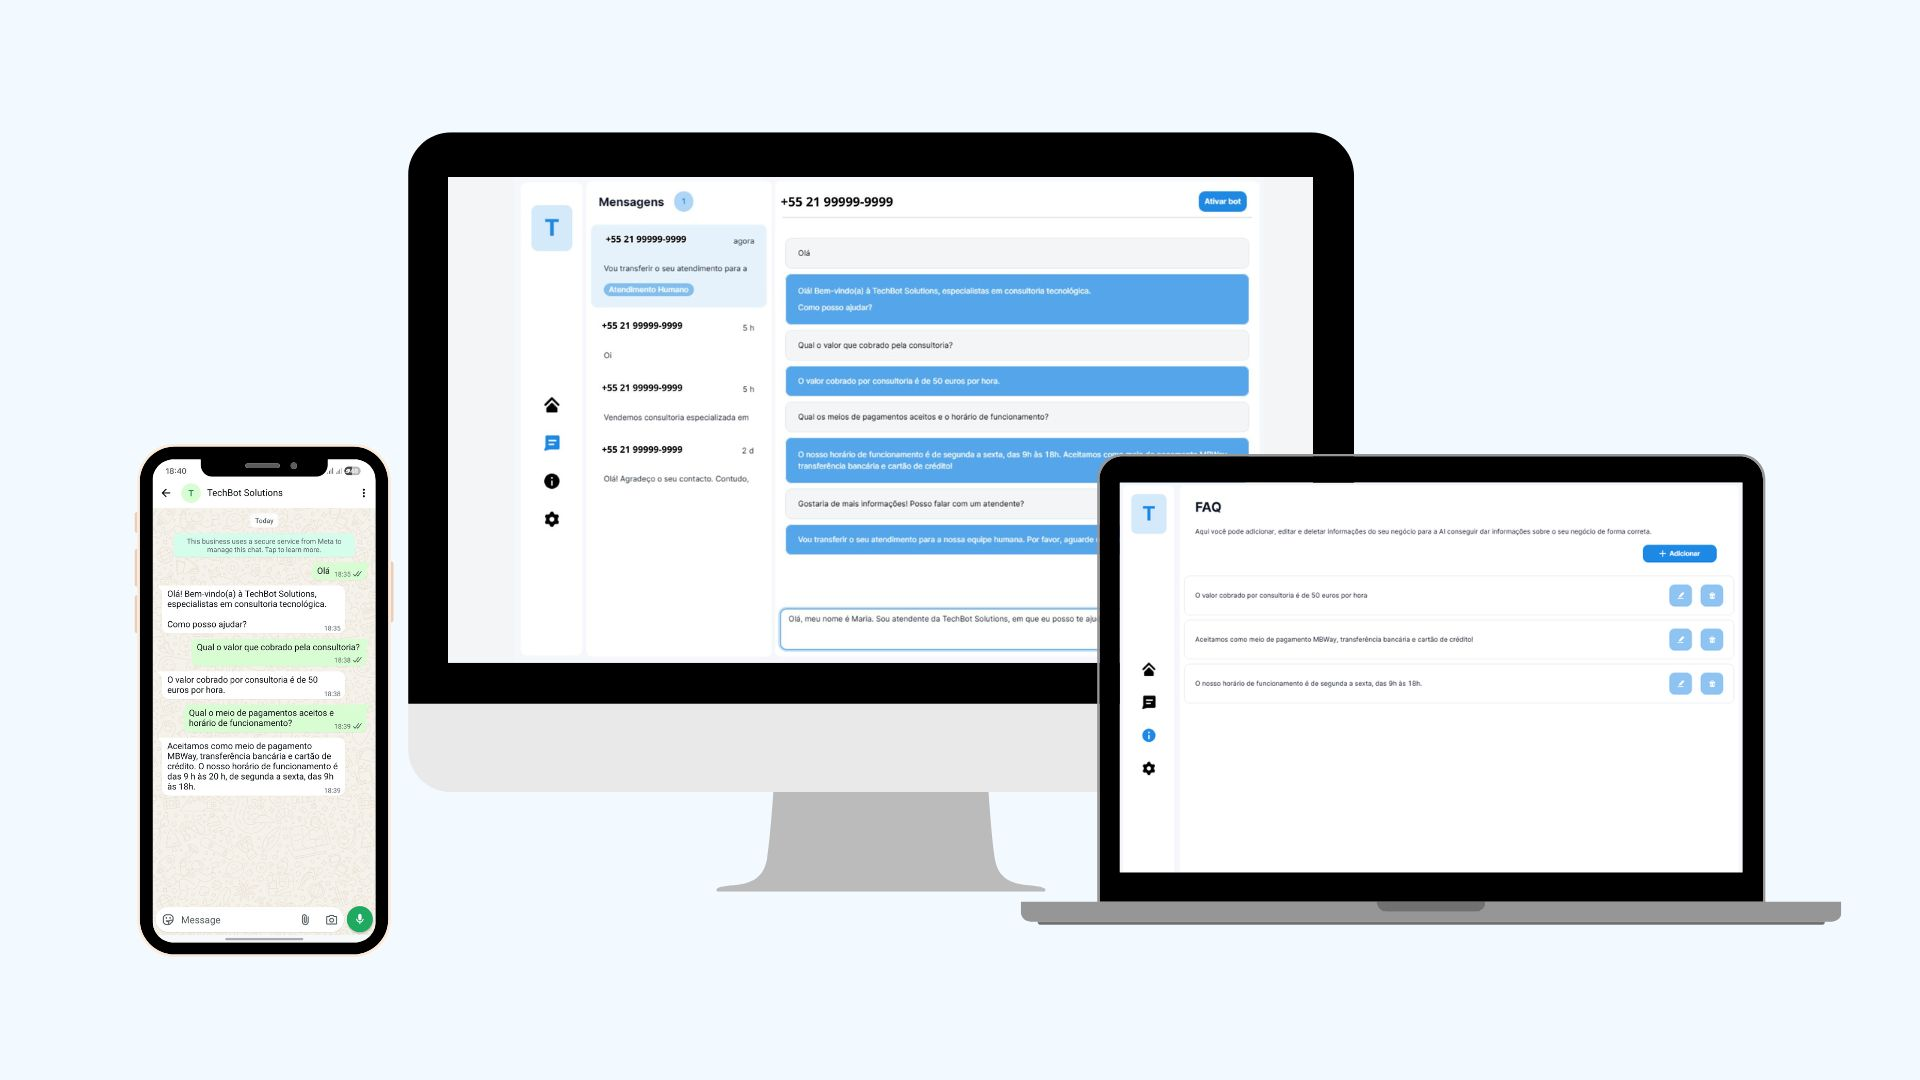
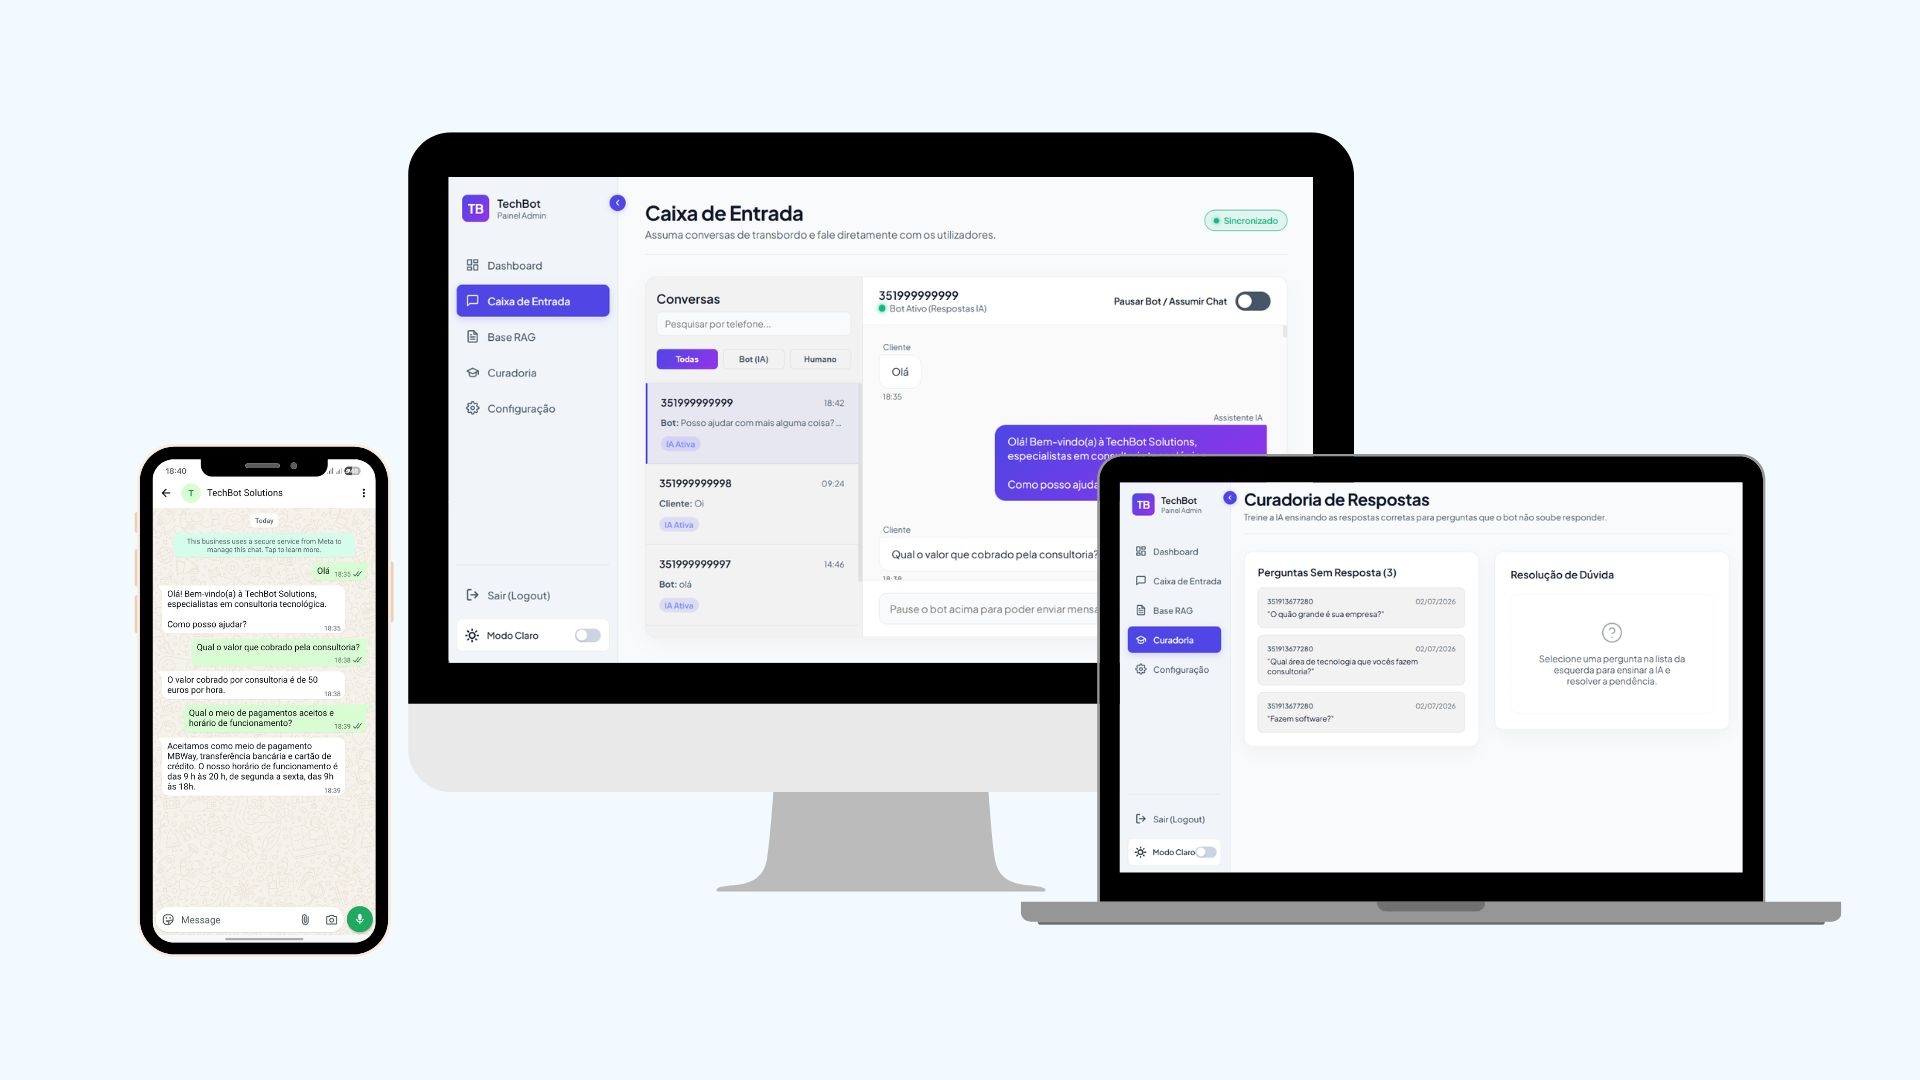
feat: update project routing to use slugs and enhance WhatsApp Chatbot project description

diff --git a/src/data/db.js b/src/data/db.js
@@ -378,7 +378,7 @@ export const projectsData = [
     title: "WhatsApp Chatbot",
     desc: "An automated customer support chatbot integrated with WhatsApp, leveraging RAG to deliver precise, hallucination-free answers from a vector database.",
     stack:
-      "Node.js, TypeScript, Google Gemini API, Supabase, WhatsApp Cloud API",
+      "Node.js, TypeScript, React, Google Gemini API, Supabase, WhatsApp Cloud API",
     year: 2026,
     role: "Software Engineer",
     image: chatbotImg,
@@ -387,10 +387,12 @@ export const projectsData = [
     longDesc: (
       <>
         <p>
-          The WhatsApp Chatbot is an automated messaging system
+          The WhatsApp Chatbot is an automated messaging and management system
           designed to optimize customer communication. Operating 24/7, it uses
-          advanced Artificial Intelligence to provide instant, precise answers
-          to frequently asked questions (FAQ).
+          Retrieval-Augmented Generation (RAG) and a bespoke administrative
+          dashboard to provide instant, precise answers to frequently asked
+          questions (FAQ), while allowing human agents to monitor and take
+          control of chats in real-time.
         </p>
 
         <br />
@@ -398,17 +400,17 @@ export const projectsData = [
         <h3>The Challenge</h3>
         <p>
           Support teams often face a high volume of repetitive inquiries, which
-          can delay response times and increase operational costs. The
-          challenge was to build an automated system that could accurately
-          understand user intent while strictly preventing the AI from
-          hallucinating or providing information outside the company's
-          established knowledge base.
+          delays response times and increases operational costs. The challenge
+          was to build a system that accurately understands user intent,
+          strictly prevents AI hallucinations, and provides a secure, intuitive
+          dashboard for human agents to supervise conversations, update company
+          knowledge, and seamlessly take over chats when necessary.
         </p>
 
         <br />
 
         <h3>The Solution</h3>
-        <p>A scalable, serverless chatbot featuring:</p>
+        <p>A scalable, secure conversational ecosystem featuring:</p>
         <ul
           style={{
             listStyleType: "disc",
@@ -417,10 +419,9 @@ export const projectsData = [
           }}
         >
           <li>
-            <strong>RAG (Retrieval-Augmented Generation):</strong> Semantic
+            <strong>Retrieval-Augmented Generation (RAG):</strong> Semantic
             search capabilities that understand the context of user questions,
-            ignoring slang and grammatical errors, to fetch correct
-            answers.
+            ignoring slang and grammatical errors, to fetch correct answers.
           </li>
           <li>
             <strong>Strict Hallucination Mitigation:</strong> The LLM is rigidly
@@ -428,14 +429,22 @@ export const projectsData = [
             knowledge base.
           </li>
           <li>
-            <strong>Human Handoff:</strong> Automated triggers that pause the
-            chatbot and smoothly transfer the conversation to a human operator
-            when the AI confidence is low or the user requests it.
+            <strong>Human Handoff:</strong> A two-step fallback protocol. If the
+            AI cannot answer, it politely asks if the user wants to speak with a
+            human. If the user confirms ("yes", "please", etc.), the chatbot
+            automatically pauses itself, notifies support, and hands over the
+            chat.
           </li>
           <li>
-            <strong>Continuous Learning Panel:</strong> An admin interface for
-            curating failed queries and re-indexing the vector database without
-            requiring code changes.
+            <strong>Custom Administration Panel:</strong> A bespoke, responsive
+            React dashboard featuring a collapsible navigation sidebar,
+            real-time message stream, and dark/light modes.
+          </li>
+          <li>
+            <strong>Continuous Curation Queue:</strong> An interface that
+            captures unresolved user questions, allowing agents to input the
+            correct answer, assign a category and title, and index it into the
+            vector database in one click.
           </li>
         </ul>
 
@@ -443,8 +452,8 @@ export const projectsData = [
 
         <h3>Engineering & Architecture</h3>
         <p>
-          The system was built with a modern, serverless cloud architecture
-          focusing on low maintenance and high scalability:
+          The system was engineered using a decoupled, secure server-client
+          architecture:
         </p>
         <ul
           style={{
@@ -454,25 +463,45 @@ export const projectsData = [
           }}
         >
           <li>
-            <strong>Backend & Integrations:</strong> Developed in Node.js using
-            TypeScript to robustly handle asynchronous webhook processing
-            directly from the official WhatsApp Cloud API.
+            <strong>Backend & Integrations:</strong> Developed in Node.js and
+            TypeScript using Express to handle real-time webhook payloads from
+            the official WhatsApp Cloud API. Secure access to all admin routes
+            is enforced via a custom JWT (JSON Web Token) authentication
+            middleware.
           </li>
           <li>
-            <strong>AI Engine:</strong> Powered by the Google Gemini API,
-            utilizing <code>gemini-embedding-001</code> for creating vector
-            representations of knowledge and Gemini for highly cost-effective
-            and intelligent language generation.
+            <strong>AI Engine:</strong> Powered by the Google Gemini API using{" "}
+            <code>Gemini 3.5 Flash</code>. Uses{" "}
+            <code>gemini-embedding-001</code> for vectorizing enterprise
+            documentation.
           </li>
           <li>
             <strong>Vector Database:</strong> Built on Supabase, leveraging the{" "}
-            <code>pgvector</code> extension to centralize both traditional chat
-            history logs and knowledge embeddings within the same PostgreSQL
-            ecosystem.
+            <code>pgvector</code> extension to query semantic contexts via
+            cosine similarity, and utilizing Supabase Realtime channels to
+            stream inbox updates instantly.
           </li>
           <li>
-            <strong>Admin Interface:</strong> Designed with Retool to provide a user-friendly curation and log management
-            dashboard.
+            <strong>Bespoke Frontend Panel:</strong> Developed in React, Vite,
+            and Vanilla CSS. It features:
+            <ul
+              style={{
+                listStyleType: "disc",
+                marginLeft: "20px",
+                marginBottom: "10px",
+              }}
+            >
+              <li>
+                <strong>Real-Time Messaging:</strong> Displays active chats with
+                unread counters, role differentiation labels, and an override
+                toggle to pause/resume the AI.
+                <strong>Knowledge Grid:</strong> Fully editable table to manage
+                knowledge items, categories, and titles.
+                <strong>Dynamic Settings Control:</strong> A database-backed
+                config page that lets administrators edit the system prompt and
+                change AI models instantly without restarting the server.
+              </li>
+            </ul>
           </li>
         </ul>
 
@@ -480,11 +509,12 @@ export const projectsData = [
 
         <h3>Results</h3>
         <p>
-          The result is a highly stable and intelligent messaging system that
-          drastically reduces the human support workload. By maintaining an
-          uncompromised standard of data privacy via environment variables and
-          seamlessly integrating the human handoff protocol, the chatbot ensures
-          users always receive accurate, reliable, and fluid customer service.
+          The result is a highly stable, secure, and intelligent messaging
+          solution that reduces support workload by automating repetitive FAQs.
+          By combining robust JWT security, real-time agent notifications, and a
+          seamless human takeover channel, the chatbot guarantees that users
+          receive accurate, reliable support while giving the company absolute
+          control over their AI.
         </p>
       </>
     ),
@@ -692,3 +722,10 @@ export const educationData = [
     ),
   },
 ];
+
+export const getProjectSlug = (title) => {
+  return title
+    .toLowerCase()
+    .replace(/\s+/g, "-")
+    .replace(/[^a-z0-9-]/g, "");
+};

diff --git a/src/pages/Projects.js b/src/pages/Projects.js
@@ -2,7 +2,7 @@ import React from "react";
 import { Link } from "react-router-dom";
 import { FaGithub } from "react-icons/fa";
 import { BsArrowUpRight } from "react-icons/bs";
-import { projectsData } from "../data/db";
+import { projectsData, getProjectSlug } from "../data/db";
 import "../styles/projects.css";
 
 function Projects() {
@@ -13,7 +13,7 @@ function Projects() {
           {projectsData.map((proj) => (
             <div className="project-row" key={proj.id}>
               <Link
-                to={`/projects/${proj.id}`}
+                to={`/projects/${getProjectSlug(proj.title)}`}
                 className="project-image-container"
               >
                 <img src={proj.image} alt={proj.title} />
@@ -21,7 +21,7 @@ function Projects() {
 
               <div className="project-details">
                 <Link
-                  to={`/projects/${proj.id}`}
+                  to={`/projects/${getProjectSlug(proj.title)}`}
                   style={{ textDecoration: "none" }}
                 >
                   <h2>{proj.title}</h2>
@@ -45,7 +45,7 @@ function Projects() {
                 </div>
 
                 <div className="project-actions">
-                  <Link to={`/projects/${proj.id}`} className="action-link">
+                  <Link to={`/projects/${getProjectSlug(proj.title)}`} className="action-link">
                     VIEW DETAILS <BsArrowUpRight className="icon" />
                   </Link>
 

diff --git a/src/pages/Home.js b/src/pages/Home.js
@@ -2,7 +2,7 @@ import React from "react";
 import { Link } from "react-router-dom";
 import { FaGithub, FaLinkedin } from "react-icons/fa";
 import "../styles/home.css";
-import { personalData, techStack, projectsData } from "../data/db";
+import { personalData, techStack, projectsData, getProjectSlug } from "../data/db";
 
 function Home() {
   return (
@@ -90,7 +90,7 @@ function Home() {
           <div className="projects-grid">
             {projectsData.map((proj) => (
               <Link
-                to={`/projects/${proj.id}`}
+                to={`/projects/${getProjectSlug(proj.title)}`}
                 className="project-card-home"
                 key={proj.id}
               >

diff --git a/src/pages/ProjectDetails.js b/src/pages/ProjectDetails.js
@@ -7,12 +7,12 @@ import {
   FaChevronDown,
 } from "react-icons/fa";
 import { BsArrowUpRight } from "react-icons/bs";
-import { projectsData } from "../data/db";
+import { projectsData, getProjectSlug } from "../data/db";
 import "../styles/project-details.css";
 
 function ProjectDetails() {
-  const { id } = useParams();
-  const project = projectsData.find((p) => p.id === parseInt(id));
+  const { slug } = useParams();
+  const project = projectsData.find((p) => getProjectSlug(p.title) === slug);
 
   useEffect(() => {
     window.scrollTo(0, 0);

diff --git a/src/App.js b/src/App.js
@@ -68,7 +68,7 @@ function App() {
           <Route path="/" element={<Home />} />
           <Route path="/about" element={<About />} />
           <Route path="/projects" element={<Projects />} />
-          <Route path="/projects/:id" element={<ProjectDetails />} />
+          <Route path="/projects/:slug" element={<ProjectDetails />} />
         </Routes>
       </div>
 
